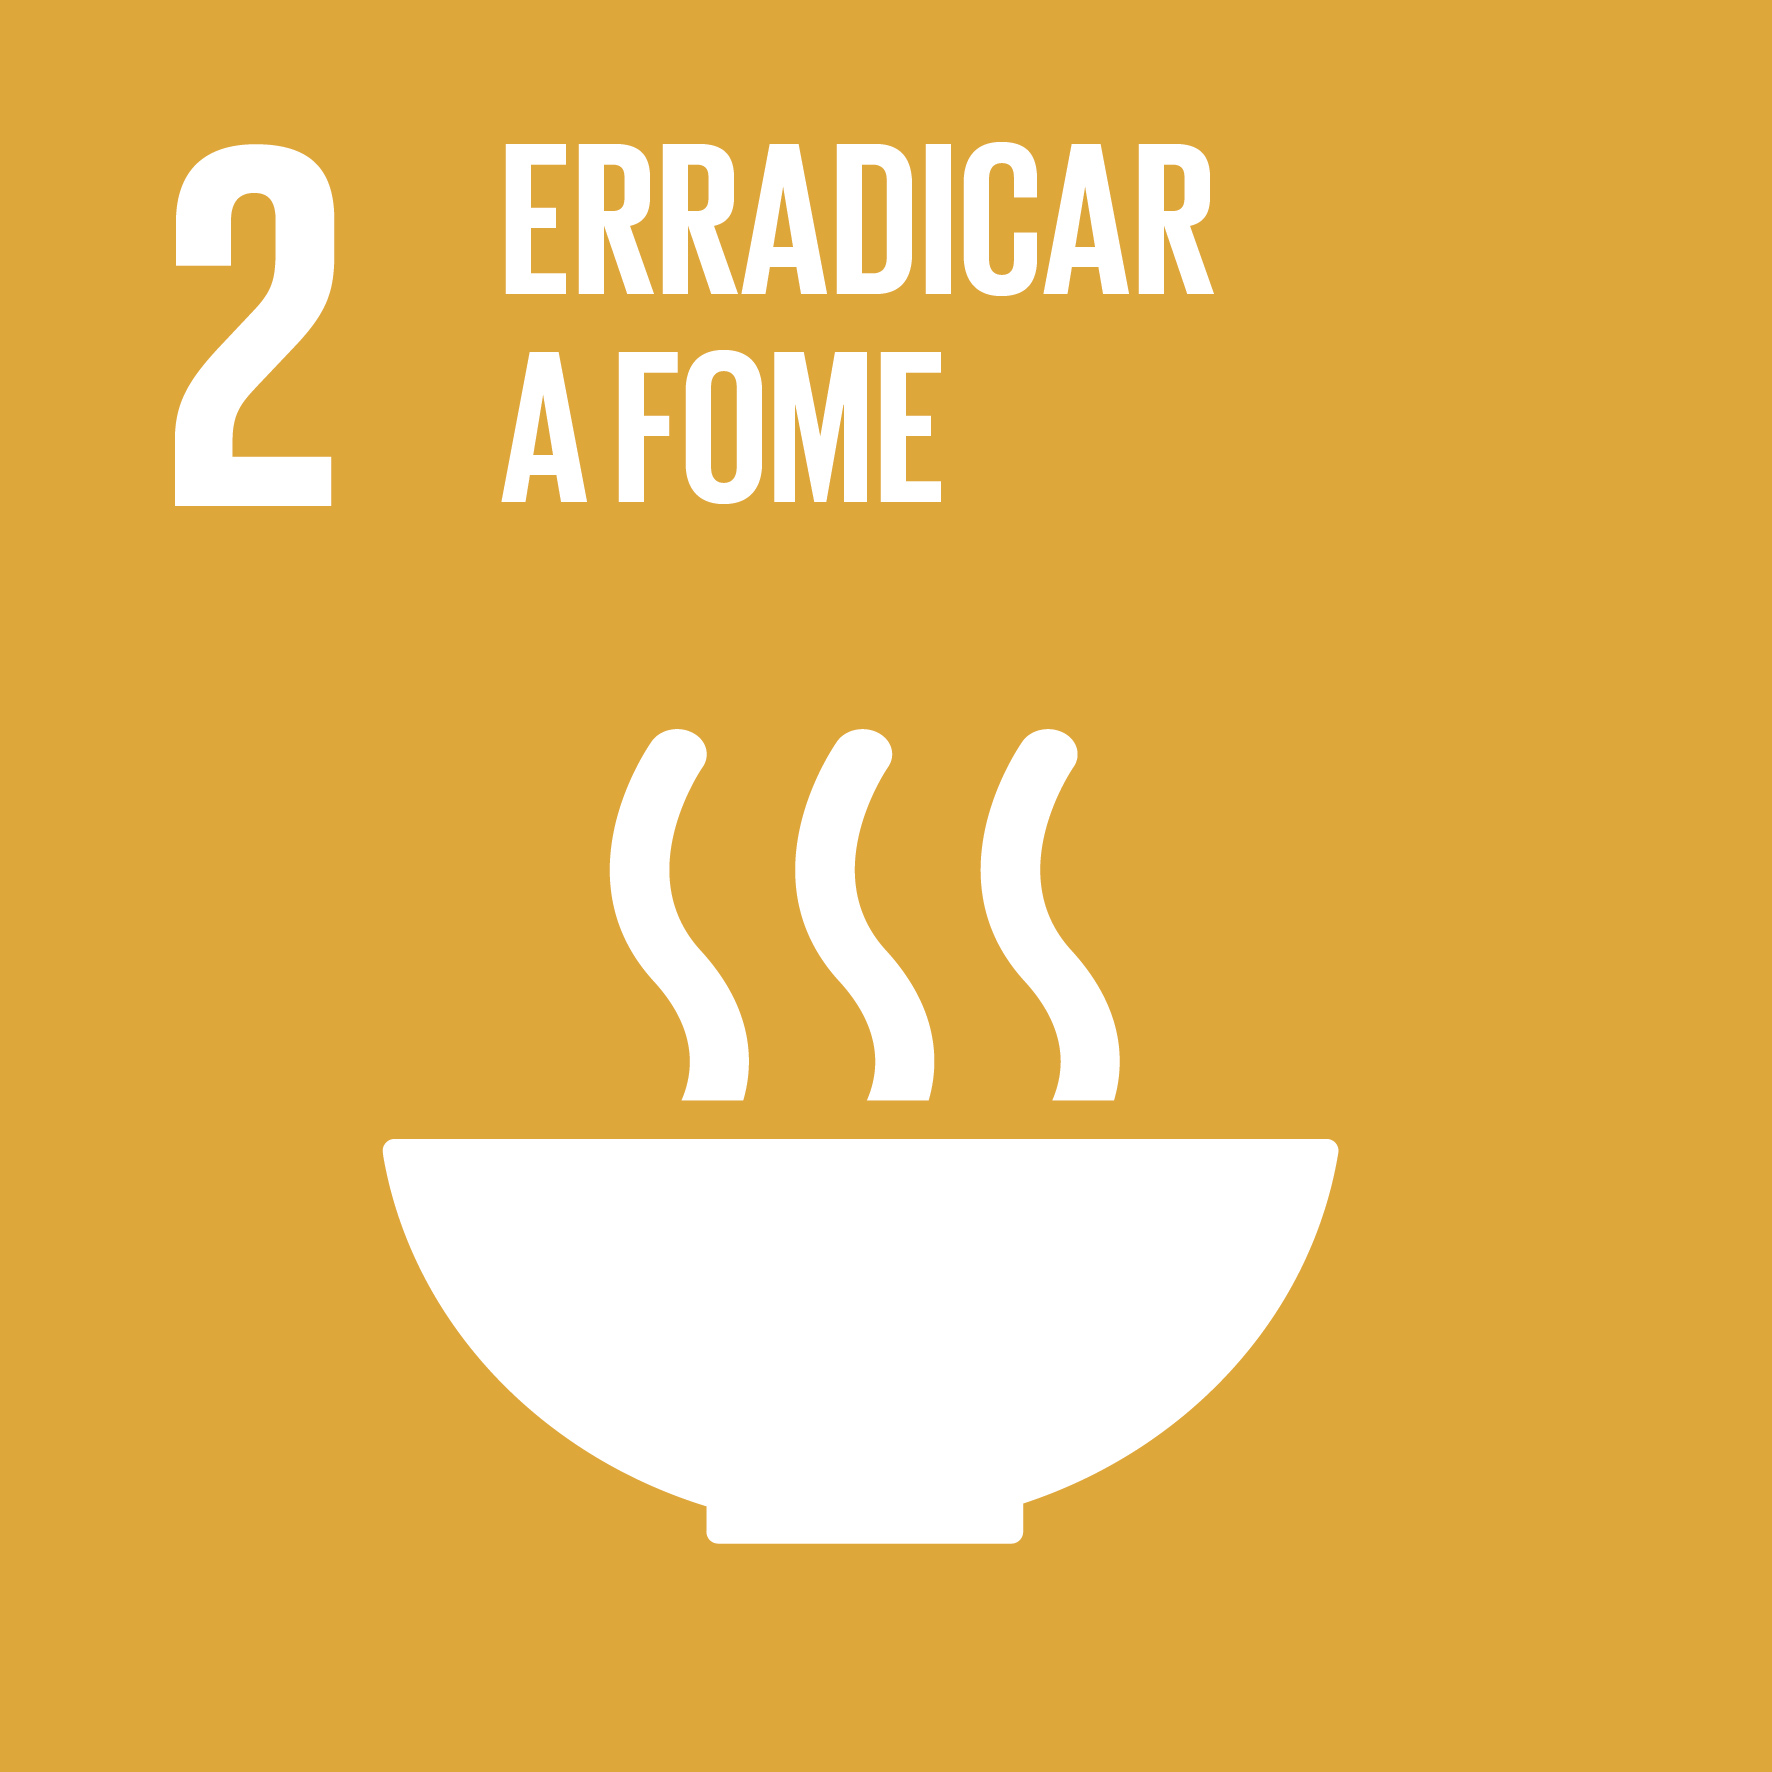
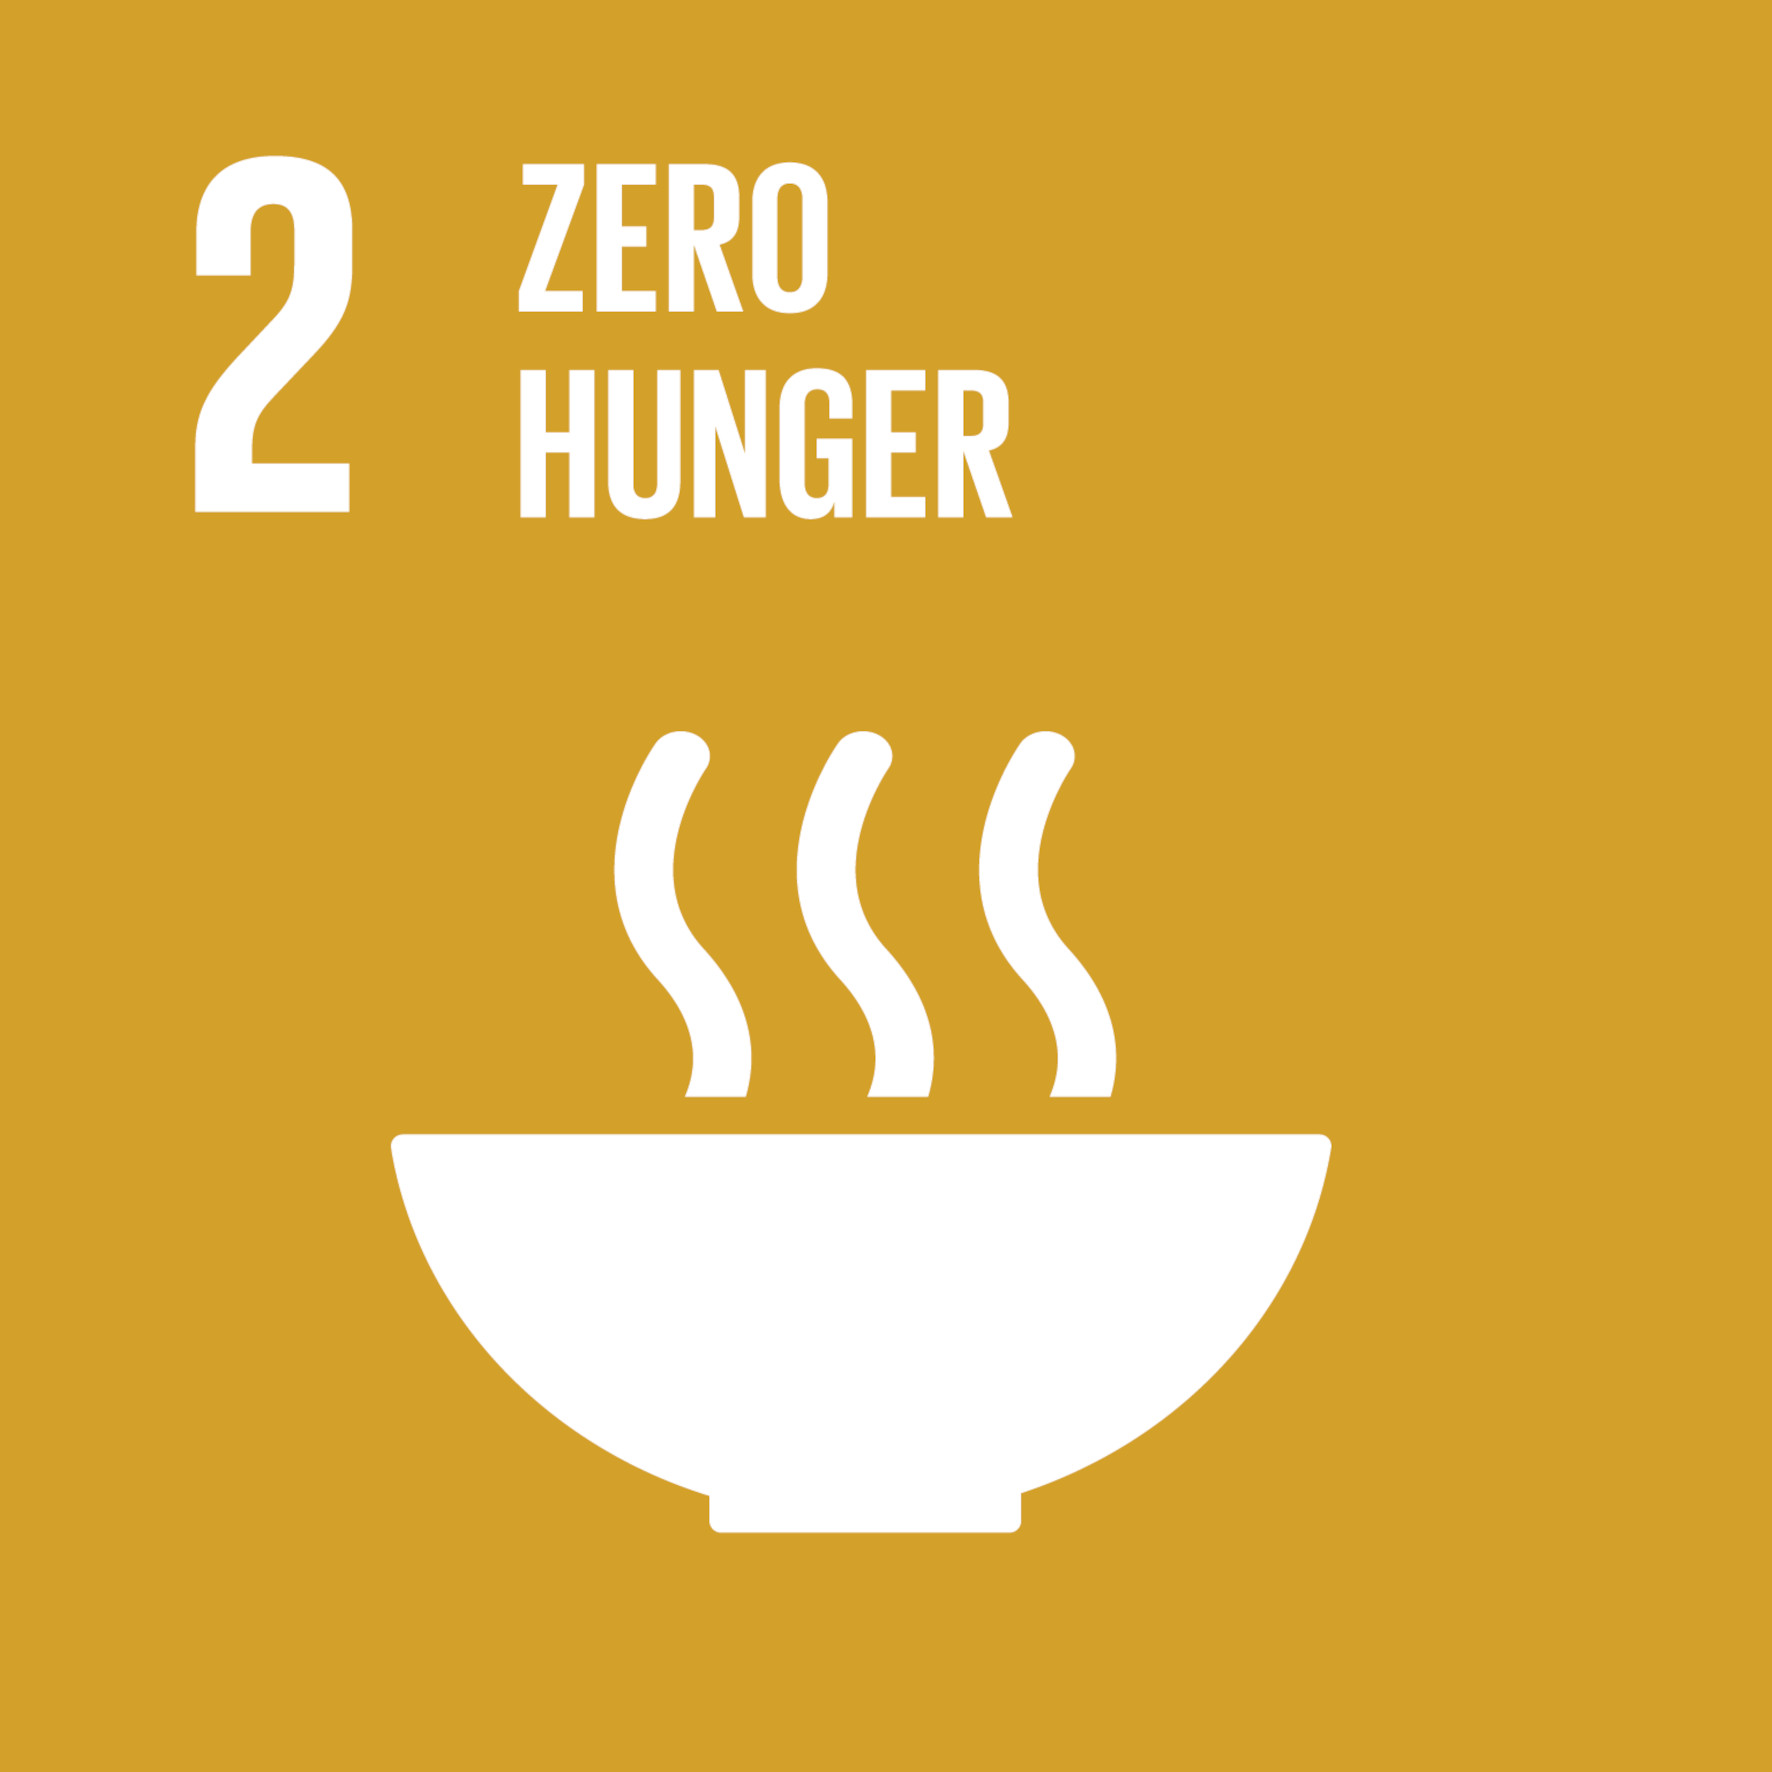
fix: assets in english and dart format

diff --git a/lib/views/dialogs/event_filter_dialog.dart b/lib/views/dialogs/event_filter_dialog.dart
@@ -63,12 +63,12 @@ class _EventFilterDialogState extends State<EventFilterDialog> {
 
     if (filter.startDate != null) {
       startDateController.text =
-      '${filter.startDate!.day.toString().padLeft(2, '0')}/${filter.startDate!.month.toString().padLeft(2, '0')}/${filter.startDate!.year}';
+          '${filter.startDate!.day.toString().padLeft(2, '0')}/${filter.startDate!.month.toString().padLeft(2, '0')}/${filter.startDate!.year}';
     }
 
     if (filter.endDate != null) {
       endDateController.text =
-      '${filter.endDate!.day.toString().padLeft(2, '0')}/${filter.endDate!.month.toString().padLeft(2, '0')}/${filter.endDate!.year}';
+          '${filter.endDate!.day.toString().padLeft(2, '0')}/${filter.endDate!.month.toString().padLeft(2, '0')}/${filter.endDate!.year}';
     }
   }
 
@@ -95,15 +95,10 @@ class _EventFilterDialogState extends State<EventFilterDialog> {
                   horizontal: 18,
                   vertical: 16,
                 ),
-                decoration: const BoxDecoration(
-                  color: Color(0xFF3E5F36),
-                ),
+                decoration: const BoxDecoration(color: Color(0xFF3E5F36)),
                 child: Row(
                   children: [
-                    const Icon(
-                      Icons.tune_rounded,
-                      color: Colors.white,
-                    ),
+                    const Icon(Icons.tune_rounded, color: Colors.white),
                     const SizedBox(width: 10),
                     Expanded(
                       child: Text(
@@ -266,11 +261,11 @@ class _EventFilterDialogState extends State<EventFilterDialog> {
                           shrinkWrap: true,
                           physics: const NeverScrollableScrollPhysics(),
                           gridDelegate:
-                          const SliverGridDelegateWithFixedCrossAxisCount(
-                            crossAxisCount: 6,
-                            crossAxisSpacing: 8,
-                            mainAxisSpacing: 8,
-                          ),
+                              const SliverGridDelegateWithFixedCrossAxisCount(
+                                crossAxisCount: 6,
+                                crossAxisSpacing: 8,
+                                mainAxisSpacing: 8,
+                              ),
                           itemCount: 18,
                           itemBuilder: (context, index) {
                             final goal = index + 1;
@@ -281,20 +276,23 @@ class _EventFilterDialogState extends State<EventFilterDialog> {
                               onTap: goal == 18
                                   ? null
                                   : () {
-                                setState(() {
-                                  if (isSelected) {
-                                    selectedGoals.remove(goal);
-                                  } else {
-                                    selectedGoals.add(goal);
-                                  }
-                                });
-                              },
+                                      setState(() {
+                                        if (isSelected) {
+                                          selectedGoals.remove(goal);
+                                        } else {
+                                          selectedGoals.add(goal);
+                                        }
+                                      });
+                                    },
                               child: AnimatedContainer(
                                 duration: const Duration(milliseconds: 200),
                                 decoration: BoxDecoration(
                                   borderRadius: BorderRadius.circular(14),
                                   border: isSelected
-                                      ? Border.all(color: const Color(0xFF3E5F36), width: 3)
+                                      ? Border.all(
+                                          color: const Color(0xFF3E5F36),
+                                          width: 3,
+                                        )
                                       : null,
                                   boxShadow: [
                                     if (isSelected)
@@ -360,10 +358,10 @@ class _EventFilterDialogState extends State<EventFilterDialog> {
                           items: eventCountries
                               .map(
                                 (country) => DropdownMenuItem(
-                              value: country,
-                              child: Text(country),
-                            ),
-                          )
+                                  value: country,
+                                  child: Text(country),
+                                ),
+                              )
                               .toList(),
                           onChanged: (value) {
                             setState(() {
@@ -393,10 +391,10 @@ class _EventFilterDialogState extends State<EventFilterDialog> {
                             items: eventDistrictsByCountry[selectedCountry]!
                                 .map(
                                   (district) => DropdownMenuItem(
-                                value: district,
-                                child: Text(district),
-                              ),
-                            )
+                                    value: district,
+                                    child: Text(district),
+                                  ),
+                                )
                                 .toList(),
                             onChanged: (value) {
                               setState(() {
@@ -425,10 +423,10 @@ class _EventFilterDialogState extends State<EventFilterDialog> {
                             items: eventCitiesByDistrict[selectedDistrict]!
                                 .map(
                                   (city) => DropdownMenuItem(
-                                value: city,
-                                child: Text(city),
-                              ),
-                            )
+                                    value: city,
+                                    child: Text(city),
+                                  ),
+                                )
                                 .toList(),
                             onChanged: (value) {
                               setState(() {
@@ -456,10 +454,8 @@ class _EventFilterDialogState extends State<EventFilterDialog> {
                             Expanded(
                               child: SliderTheme(
                                 data: SliderTheme.of(context).copyWith(
-                                  activeTrackColor:
-                                  const Color(0xFF3E5F36),
-                                  thumbColor:
-                                  const Color(0xFF3E5F36),
+                                  activeTrackColor: const Color(0xFF3E5F36),
+                                  thumbColor: const Color(0xFF3E5F36),
                                 ),
                                 child: RangeSlider(
                                   values: capacityRange,
@@ -497,10 +493,8 @@ class _EventFilterDialogState extends State<EventFilterDialog> {
                             Expanded(
                               child: SliderTheme(
                                 data: SliderTheme.of(context).copyWith(
-                                  activeTrackColor:
-                                  const Color(0xFF3E5F36),
-                                  thumbColor:
-                                  const Color(0xFF3E5F36),
+                                  activeTrackColor: const Color(0xFF3E5F36),
+                                  thumbColor: const Color(0xFF3E5F36),
                                 ),
                                 child: RangeSlider(
                                   values: currentUsersRange,
@@ -536,7 +530,10 @@ class _EventFilterDialogState extends State<EventFilterDialog> {
                       bottomRight: Radius.circular(28),
                     ),
                     boxShadow: [
-                      BoxShadow(color: Colors.black.withAlpha(15), blurRadius: 8),
+                      BoxShadow(
+                        color: Colors.black.withAlpha(15),
+                        blurRadius: 8,
+                      ),
                     ],
                   ),
                   child: Column(
@@ -546,8 +543,7 @@ class _EventFilterDialogState extends State<EventFilterDialog> {
                         width: double.infinity,
                         child: TextButton(
                           style: TextButton.styleFrom(
-                            foregroundColor:
-                            const Color(0xFF3E5F36),
+                            foregroundColor: const Color(0xFF3E5F36),
                           ),
                           onPressed: () {
                             setState(() {
@@ -569,9 +565,7 @@ class _EventFilterDialogState extends State<EventFilterDialog> {
                           },
                           child: const Text(
                             'Clear filters',
-                            style: TextStyle(
-                              fontWeight: FontWeight.w600,
-                            ),
+                            style: TextStyle(fontWeight: FontWeight.w600),
                           ),
                         ),
                       ),
@@ -589,7 +583,9 @@ class _EventFilterDialogState extends State<EventFilterDialog> {
                                   borderRadius: BorderRadius.circular(16),
                                 ),
                                 side: BorderSide(color: Colors.grey.shade300),
-                                padding: const EdgeInsets.symmetric(vertical: 15),
+                                padding: const EdgeInsets.symmetric(
+                                  vertical: 15,
+                                ),
                               ),
                               onPressed: () => Navigator.pop(context),
                               child: const Text('Cancel'),
@@ -605,7 +601,9 @@ class _EventFilterDialogState extends State<EventFilterDialog> {
                                 shape: RoundedRectangleBorder(
                                   borderRadius: BorderRadius.circular(16),
                                 ),
-                                padding: const EdgeInsets.symmetric(vertical: 15),
+                                padding: const EdgeInsets.symmetric(
+                                  vertical: 15,
+                                ),
                               ),
                               onPressed: () {
                                 DateTime? startDate;
@@ -613,8 +611,8 @@ class _EventFilterDialogState extends State<EventFilterDialog> {
 
                                 try {
                                   if (startDateController.text.isNotEmpty) {
-                                    final parts =
-                                    startDateController.text.split('/');
+                                    final parts = startDateController.text
+                                        .split('/');
                                     startDate = DateTime(
                                       int.parse(parts[2]),
                                       int.parse(parts[1]),
@@ -623,8 +621,9 @@ class _EventFilterDialogState extends State<EventFilterDialog> {
                                   }
 
                                   if (endDateController.text.isNotEmpty) {
-                                    final parts =
-                                    endDateController.text.split('/');
+                                    final parts = endDateController.text.split(
+                                      '/',
+                                    );
                                     endDate = DateTime(
                                       int.parse(parts[2]),
                                       int.parse(parts[1]),
@@ -664,9 +663,7 @@ class _EventFilterDialogState extends State<EventFilterDialog> {
                               },
                               child: const Text(
                                 'Apply',
-                                style: TextStyle(
-                                  fontWeight: FontWeight.w600,
-                                ),
+                                style: TextStyle(fontWeight: FontWeight.w600),
                               ),
                             ),
                           ),

diff --git a/lib/views/widgets/top_bar_tabs/event_filter_button.dart b/lib/views/widgets/top_bar_tabs/event_filter_button.dart
@@ -51,7 +51,8 @@ class _EventFilterButtonState extends State<EventFilterButton> {
               context: context,
 
               builder: (_) => EventFilterDialog(
-                currentUserId: context.read<AuthViewModel>().currentUser?.uid ?? '',
+                currentUserId:
+                    context.read<AuthViewModel>().currentUser?.uid ?? '',
               ),
             );
           },

diff --git a/lib/services/filters/event_filter_service.dart b/lib/services/filters/event_filter_service.dart
@@ -17,7 +17,8 @@ class EventFilterService {
         return false;
       }
 
-      if (filter.excludeCreatedBy != null && event.idCreator == filter.excludeCreatedBy) {
+      if (filter.excludeCreatedBy != null &&
+          event.idCreator == filter.excludeCreatedBy) {
         return false;
       }
 
